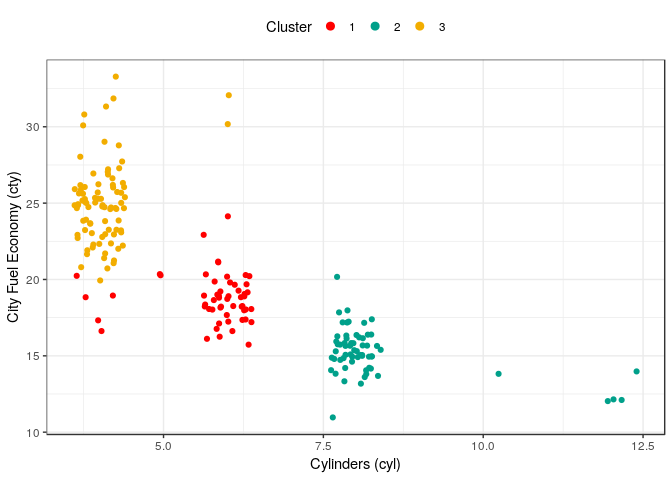
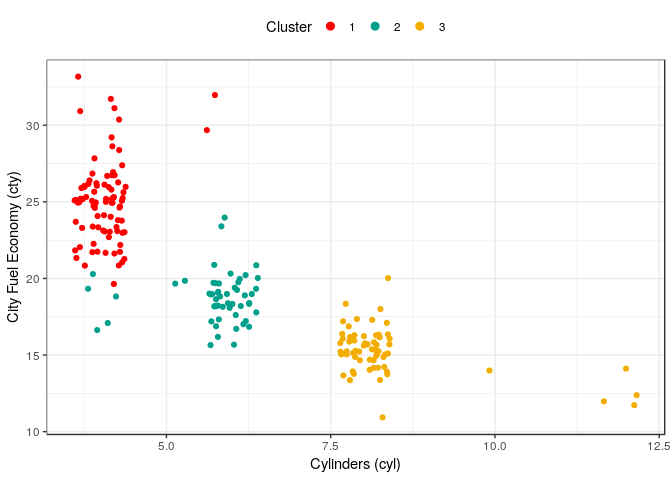
clustertweak

diff --git a/source/Clustering.md b/source/Clustering.md
@@ -25,6 +25,8 @@ library(tidyverse)
 library(knitr)
 library(kableExtra)
 library(broom)
+library(factoextra)
+library(wesanderson)
 ```
 
 Cluster Data
@@ -44,10 +46,10 @@ vehicles_sel <- my_vehicles %>%
 vehicles_sel_scaled <- vehicles_sel %>%
   mutate_all(scale)
 
-
+# Try different numbers of clusters
 clust3 <- kmeans(vehicles_sel_scaled, centers = 3)
 clust5 <- kmeans(vehicles_sel_scaled, centers = 5)
-clust7 <- kmeans(vehicles_sel_scaled, centers = 7) # chose this one
+clust7 <- kmeans(vehicles_sel_scaled, centers = 7) 
 clust10 <- kmeans(vehicles_sel_scaled, centers = 10)
 ```
 
@@ -74,22 +76,14 @@ kable(combine_summ,format='markdown',digits=2) %>%
 
 | .cluster |  num\_vehicles|  mean\_cty|  min\_cty|  max\_cty|  mean\_displ|  mean\_cyl|
 |:---------|--------------:|----------:|---------:|---------:|------------:|----------:|
-| 3        |             86|      25.05|        20|        33|         1.87|       4.05|
-| 1        |             55|      18.71|        16|        24|         3.12|       5.78|
-| 2        |             63|      15.19|        11|        20|         5.12|       8.29|
+| 1        |             86|      25.05|        20|        33|         1.87|       4.05|
+| 2        |             55|      18.71|        16|        24|         3.12|       5.78|
+| 3        |             63|      15.19|        11|        20|         5.12|       8.29|
 
 Visualize
 ---------
 
 ``` r
-library(factoextra)
-```
-
-    ## Welcome! Related Books: `Practical Guide To Cluster Analysis in R` at https://goo.gl/13EFCZ
-
-``` r
-library(wesanderson)
-
 fviz_cluster(clust3,data=vehicles_sel,repel=F,ggtheme=theme_bw())
 ```
 
